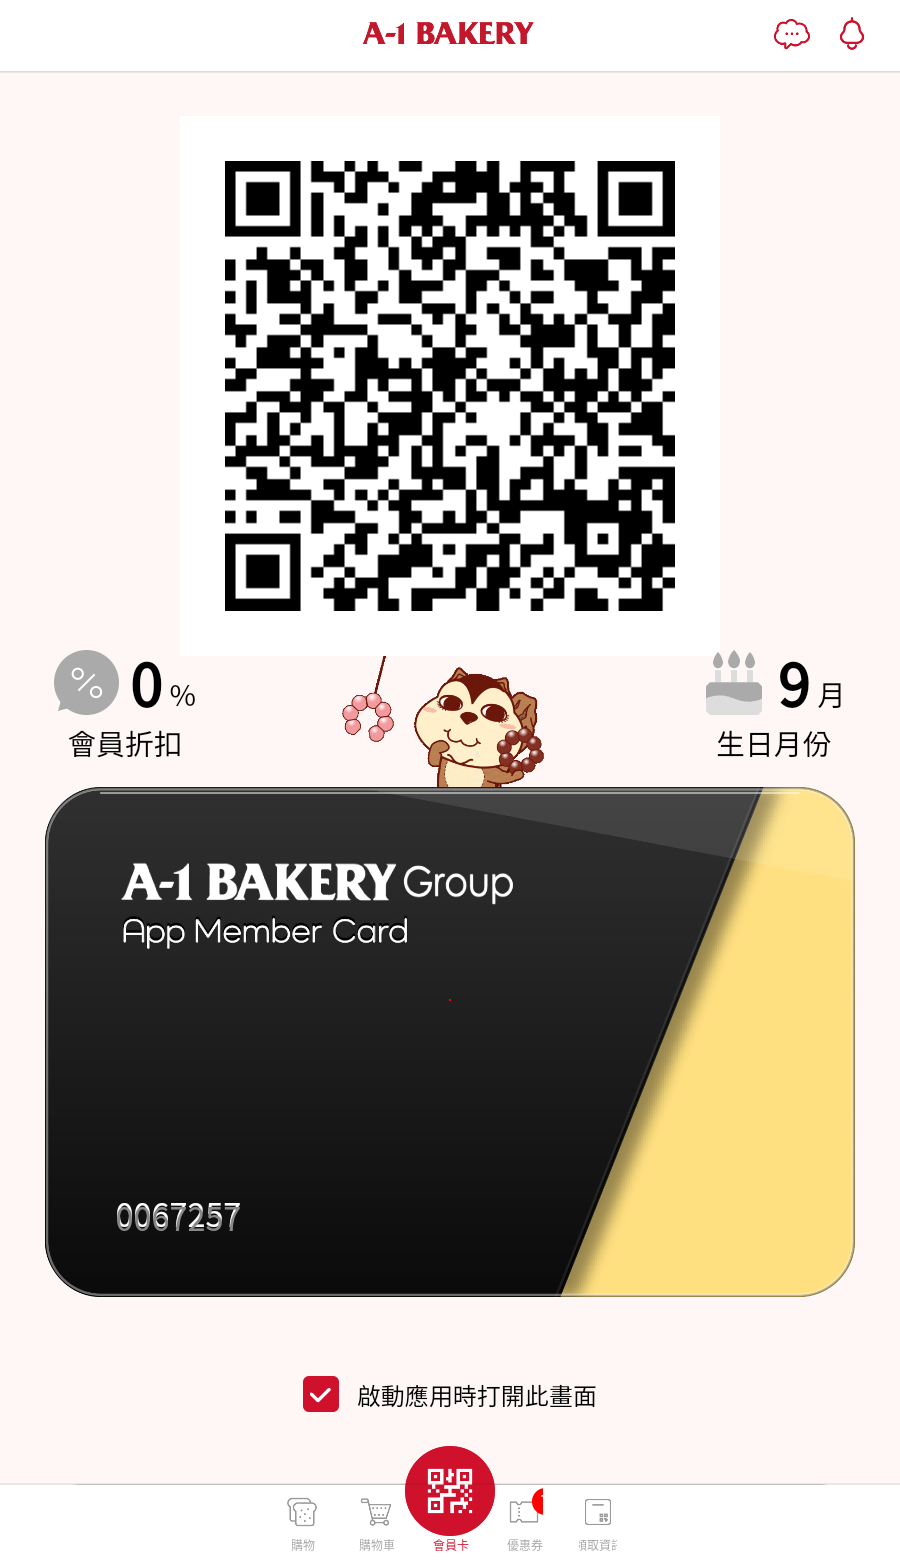
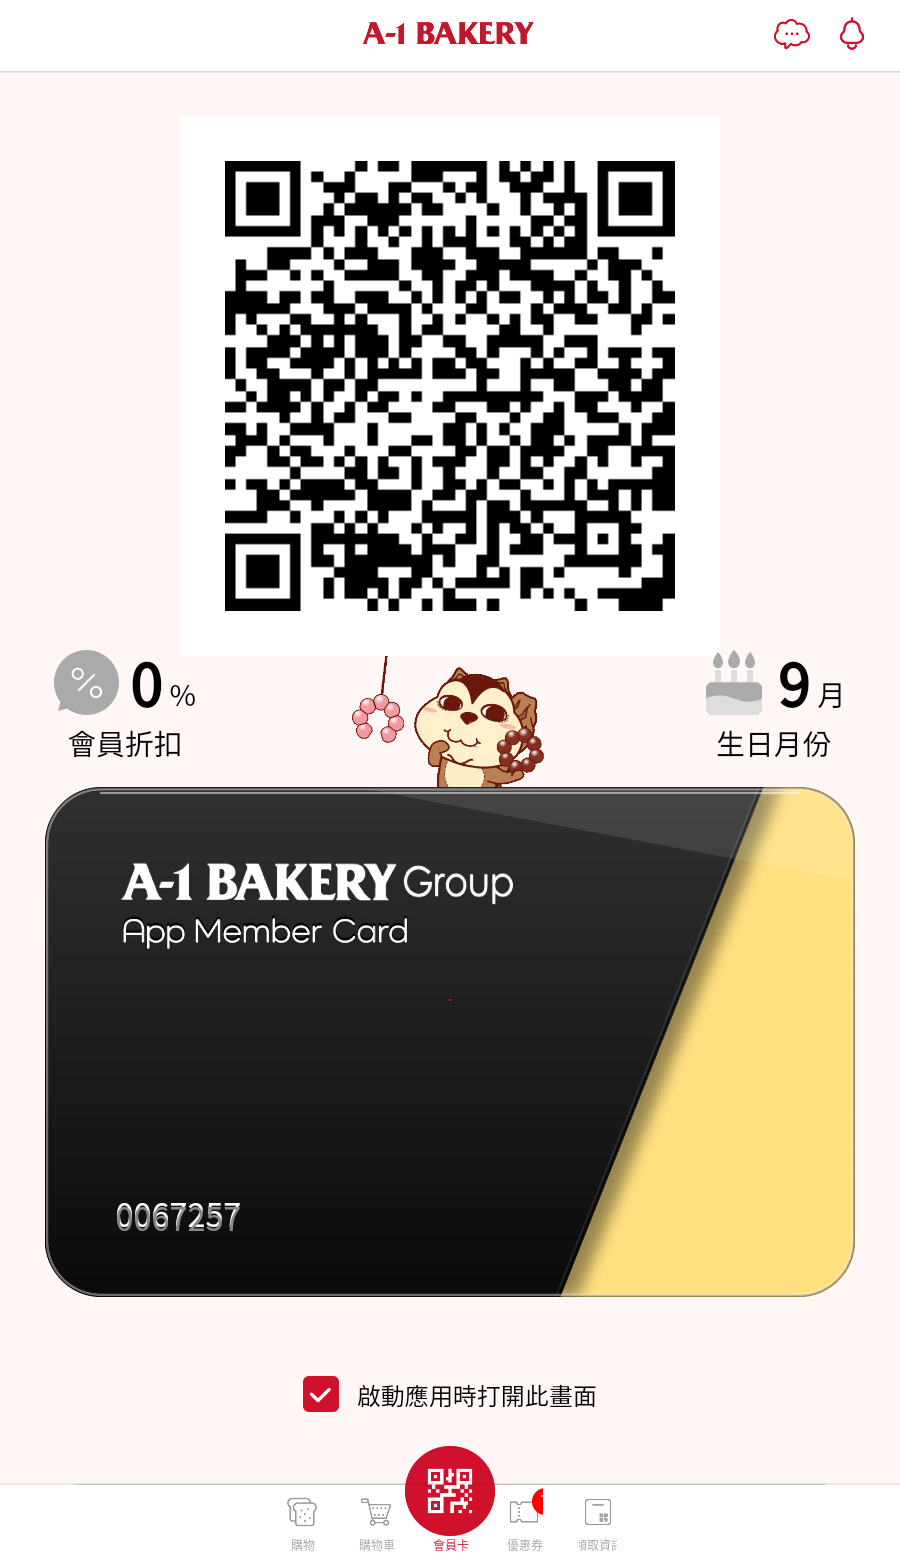
Auto Update 20260406225003

Changed region(s): [[0.2489, 0.0923, 0.7467, 0.4], [0.3733, 0.4308, 0.4667, 0.4923]]

diff --git a/a1/index.html b/a1/index.html
@@ -2,52 +2,44 @@
 <html lang="zh-Hant">
 <head>
     <meta charset="UTF-8">
-    <meta name="viewport" content="width=device-width, initial-scale=1.0, maximum-scale=1.0, user-scalable=no, viewport-fit=cover">
-    <title>A1 會員認證</title>
+    <meta name="viewport" content="width=device-width, initial-scale=1.0">
+    <title>A1 Bakery 最新 QR Code</title>
     <style>
-        body, html { height: 100%; margin: 0; background: #000; color: #fff; font-family: -apple-system, sans-serif; overflow: hidden; }
-        #login-box { display: flex; flex-direction: column; justify-content: center; align-items: center; height: 100vh; }
-        input { width: 70%; padding: 15px; border-radius: 12px; border: 1px solid #333; background: #1a1a1a; color: #fff; font-size: 18px; margin-bottom: 20px; text-align: center; outline: none; }
-        button { width: 75%; padding: 15px; border-radius: 12px; border: none; background: #e84118; color: white; font-size: 18px; font-weight: bold; cursor: pointer; }
-        #qr-display { display: none; width: 100vw; height: 100vh; }
-        #qr-img { width: 100%; height: 100%; object-fit: cover; }
+        body { font-family: sans-serif; text-align: center; padding: 20px; background-color: #f4f4f4; }
+        .container { background: white; padding: 20px; border-radius: 15px; box-shadow: 0 4px 6px rgba(0,0,0,0.1); display: inline-block; }
+        img { max-width: 100%; height: auto; border: 1px solid #ddd; }
+        .time-info { color: #666; margin-top: 15px; font-size: 0.9em; }
+        .refresh-btn { margin-top: 20px; padding: 10px 20px; background: #8B4513; color: white; border: none; border-radius: 5px; cursor: pointer; }
     </style>
 </head>
 <body>
-    <div id="login-box">
-        <h2 style="margin-bottom: 10px;">A1 Bakery 授權</h2>
-        <p style="color: #666; margin-bottom: 30px; font-size: 14px;">請輸入區分大小寫的授權碼</p>
-        <input type="password" id="pw" placeholder="Enter Password" autocomplete="off">
-        <button onclick="verify()">進入查看</button>
-    </div>
 
-    <div id="qr-display">
-        <img src="assets/qr.png" id="qr-img">
+    <div class="container">
+        <h2>A1 Bakery 會員 QR Code</h2>
+        
+        <img id="qr-image" src="assets/qr.png" alt="QR Code 加載中...">
+        
+        <div class="time-info" id="update-time">
+            正在取得更新時間...
+        </div>
+
+        <button class="refresh-btn" onclick="location.reload()">手動刷新網頁</button>
     </div>
 
     <script>
-        // 這裡的密碼會被 Python 自動更新
-        const MY_SECRET = "A1HAPPY"; 
+        // 1. 自動為圖片加上時間戳，強制瀏覽器抓最新的圖
+        const qrImg = document.getElementById('qr-image');
+        qrImg.src = "assets/qr.png?t=" + new Date().getTime();
 
-        function verify() {
-            const input = document.getElementById('pw').value;
-            // 嚴格比對，不轉小寫
-            if (input === MY_SECRET) {
-                document.getElementById('login-box').style.display = 'none';
-                document.getElementById('qr-display').style.display = 'block';
-                // 加上時間戳防止快取舊圖
-                const img = document.getElementById('qr-img');
-                img.src = "assets/qr.png?t=" + new Date().getTime();
-            } else {
-                alert("授權碼不正確 (請注意大小寫)");
-                document.getElementById('pw').value = "";
-            }
-        }
-
-        // 安全機制：當用戶切換分頁或關閉再開時，強制重新輸入
-        window.onpageshow = function(event) {
-            if (event.persisted) window.location.reload();
-        };
+        // 2. 讀取腳本產生的 time.txt 並顯示
+        fetch('assets/time.txt?t=' + new Date().getTime())
+            .then(response => response.text())
+            .then(data => {
+                document.getElementById('update-time').innerText = data;
+            })
+            .catch(err => {
+                document.getElementById('update-time').innerText = "無法取得更新時間";
+            });
     </script>
 </body>
 </html>
